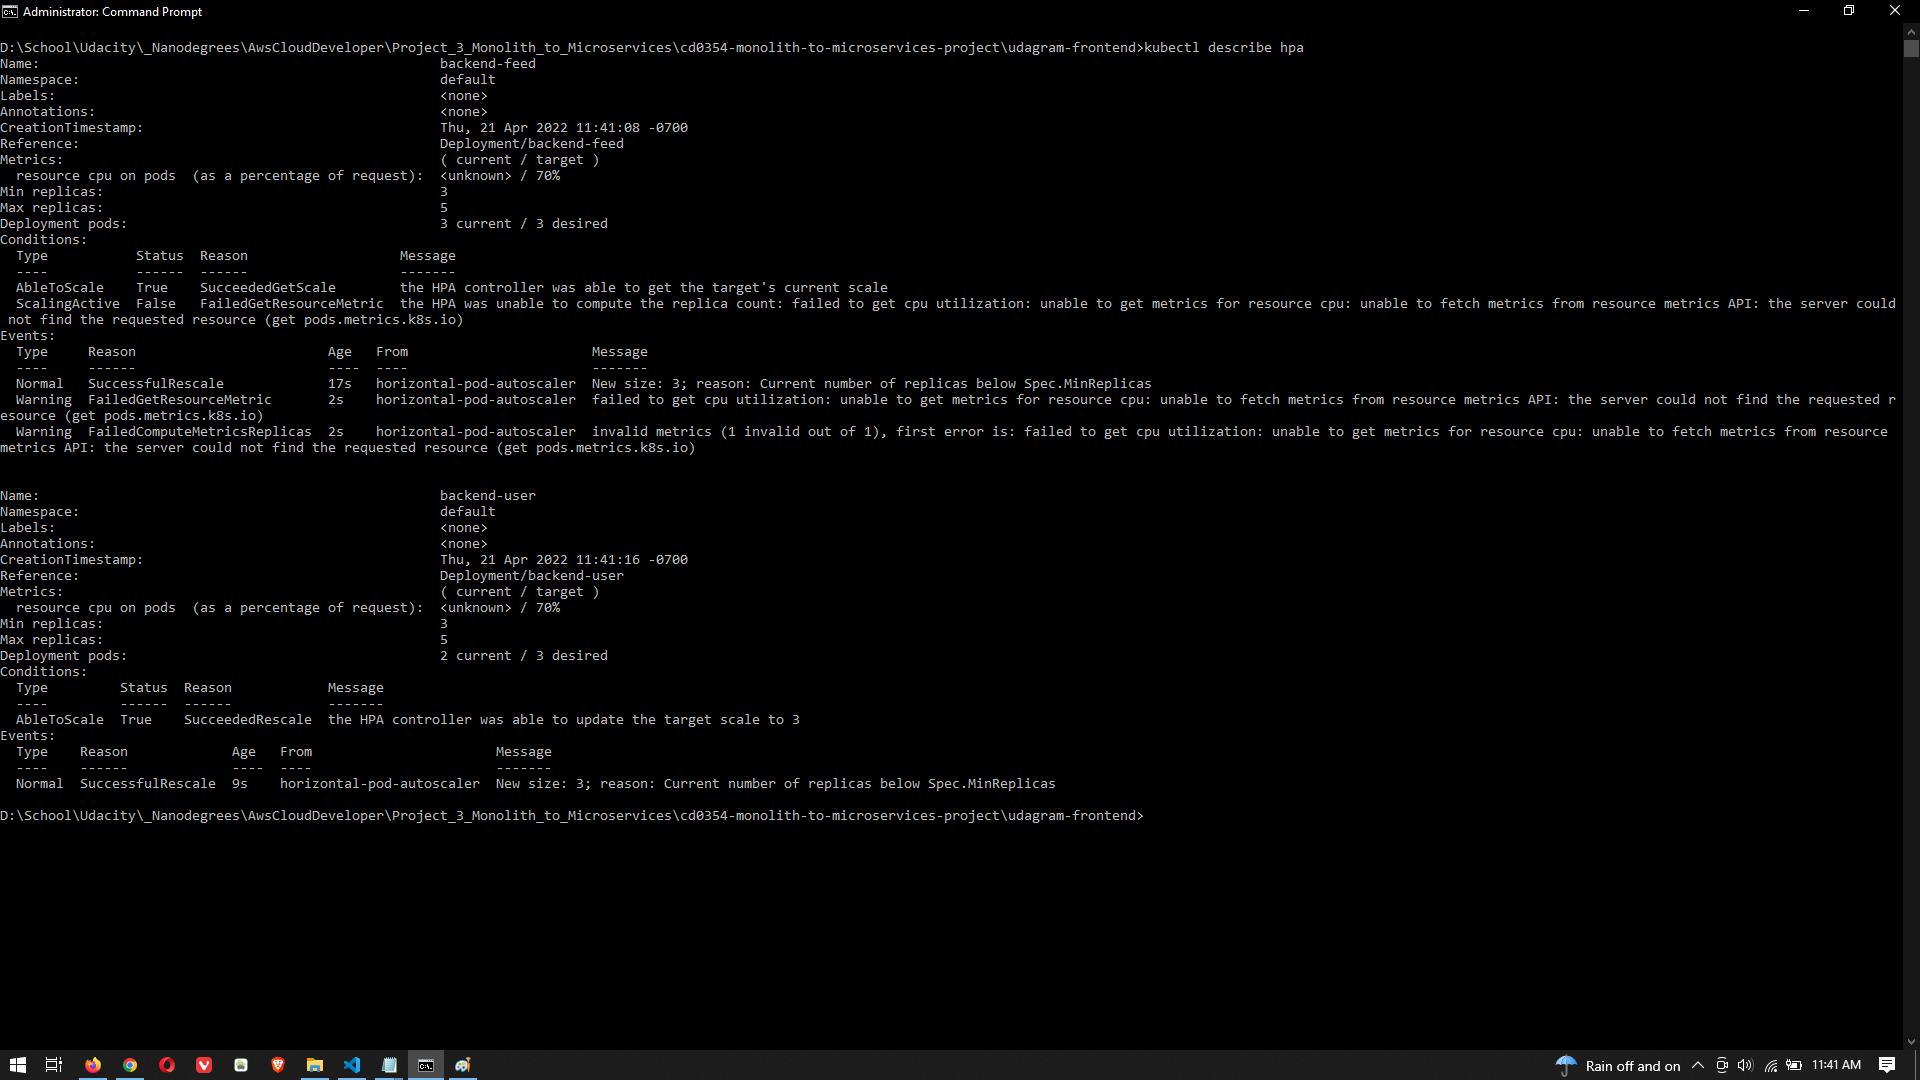
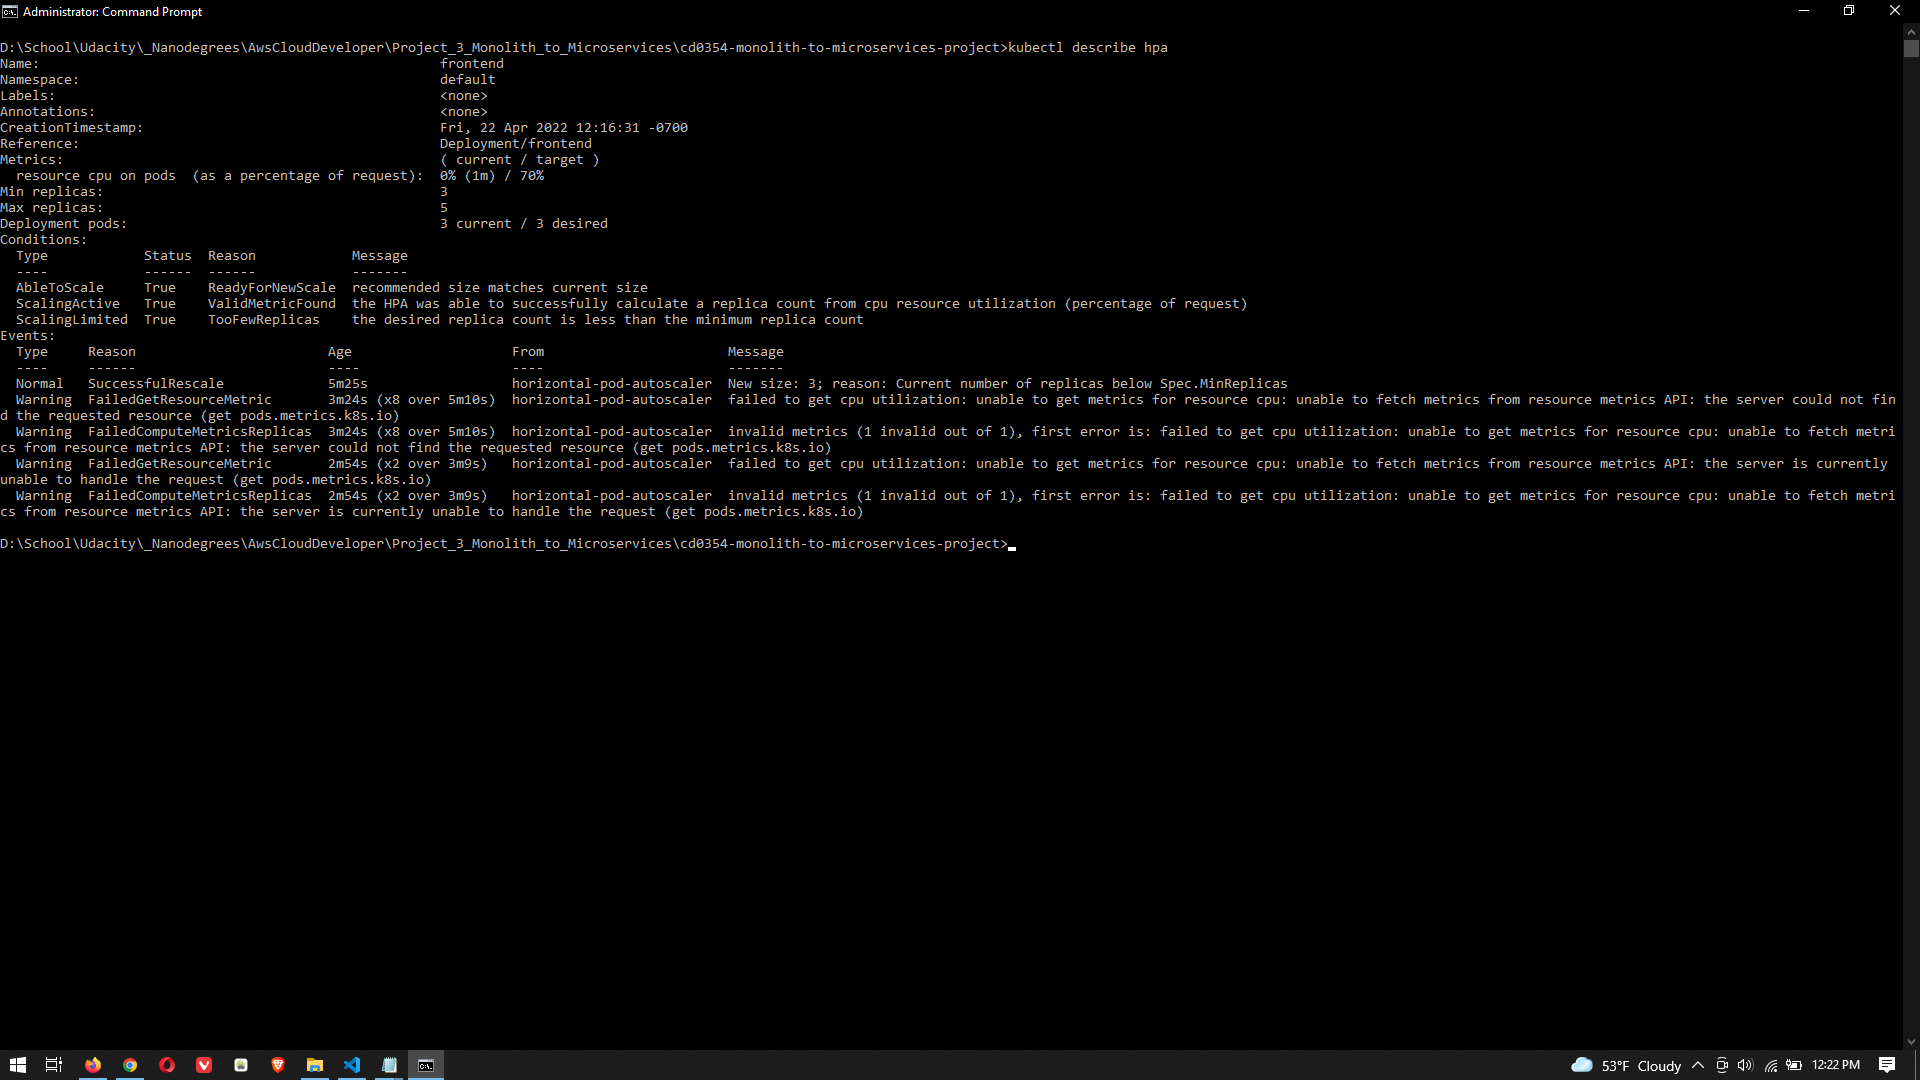
1. removed old log screenshot 2. added log screenshots for feed and user 3. installed metrics server 4. updated screenshot for hpa

diff --git a/udagram-frontend/src/environments/environment.ts b/udagram-frontend/src/environments/environment.ts
@@ -5,8 +5,12 @@
 export const environment = {
   production: false,
   appName: 'Udagram',
-  apiHost: 'a795a6de304cc4a54bbf768e0b935b35-1779731435.us-east-2.elb.amazonaws.com'
+  apiHost: 'http://a06bbcf9a2c4d403f8cde05ea0417928-1674383510.us-east-2.elb.amazonaws.com'
 };
+
+// http://localhost:8080/api/v0
+// http://a795a6de304cc4a54bbf768e0b935b35-1779731435.us-east-2.elb.amazonaws.com
+
 
 /*
  * For easier debugging in development mode, you can import the following file

diff --git a/udagram-frontend/src/environments/environment.prod.ts b/udagram-frontend/src/environments/environment.prod.ts
@@ -5,8 +5,11 @@
 export const environment = {
   production: false,
   appName: 'Udagram',
-  apiHost: 'a795a6de304cc4a54bbf768e0b935b35-1779731435.us-east-2.elb.amazonaws.com'
+  apiHost: 'http://a06bbcf9a2c4d403f8cde05ea0417928-1674383510.us-east-2.elb.amazonaws.com'
 };
+
+// http://localhost:8080/api/v0
+// http://a795a6de304cc4a54bbf768e0b935b35-1779731435.us-east-2.elb.amazonaws.com
 
 /*
  * For easier debugging in development mode, you can import the following file
